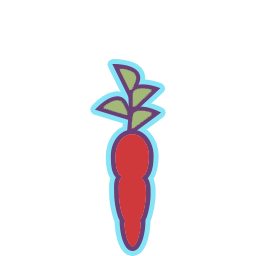
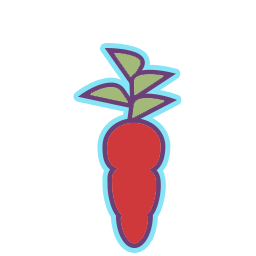
* Experiment with item offset

Changed region(s): [[0.2812, 0.1562, 0.7188, 1.0]]

diff --git a/src/TINS2025/Gameplay/Screen.cpp b/src/TINS2025/Gameplay/Screen.cpp
@@ -340,6 +340,55 @@ void Screen::load_up_world()
    auto generic_player_input_controller = new AllegroFlare::PlayerInputControllers::Generic();
    generic_player_input_controller->set_on_time_step_update(
       [this](AllegroFlare::Vec2D value, double time_now, double time_step) {
+         /*
+         float threshold = 0.1f;
+         float max_velocity = 0.2f;
+         float acceleration = 1.0f; // units per second squared
+         float deceleration = 2.0f; // units per second squared
+
+         // Get current velocity
+         AllegroFlare::Vec2D current_velocity = {
+            player_entity->aabb2d.get_velocity_x(),
+            player_entity->aabb2d.get_velocity_y()
+         };
+
+         AllegroFlare::Vec2D target_direction = value;
+         if (target_direction.get_magnitude() > 1.0f)
+         {
+            target_direction = target_direction.normalized();
+         }
+
+         AllegroFlare::Vec2D desired_velocity = target_direction * max_velocity;
+
+         AllegroFlare::Vec2D velocity_diff = desired_velocity - current_velocity;
+
+         // Calculate acceleration or deceleration based on input presence
+         float applied_accel = (std::abs(value.x) > threshold || std::abs(value.y) > threshold)
+            ? acceleration
+            : deceleration;
+
+         AllegroFlare::Vec2D velocity_change = velocity_diff.normalized() * applied_accel * time_step;
+
+         // Clamp the change if it's going to overshoot
+         if (velocity_change.get_magnitude() > velocity_diff.get_magnitude())
+         {
+            velocity_change = velocity_diff;
+         }
+
+         AllegroFlare::Vec2D new_velocity = current_velocity + velocity_change;
+
+         player_entity->aabb2d.set_velocity_x(new_velocity.x);
+         player_entity->aabb2d.set_velocity_y(new_velocity.y);
+
+         if (std::abs(value.x) > threshold || std::abs(value.y) > threshold)
+         {
+            player_entity->animation_mode = TINS2025::Entity::ANIMATION_MODE_WALKING_WOBBLY;
+         }
+         else
+         {
+            player_entity->animation_mode = TINS2025::Entity::ANIMATION_MODE_STANDING;
+         }
+         */
          //throw std::runtime_error("asdfasf");
 
          //player_entity->
@@ -351,6 +400,9 @@ void Screen::load_up_world()
          //player_box->position.z += value.y * 0.02;
          //player_entity->aabb2d.set_velocity_x(value.x * 0.02);
          //player_entity->aabb2d.set_velocity_y(value.y * 0.02);
+         //player_entity->aabb2d.set_velocity_x(value.x * 0.01625 * 3);
+         //player_entity->aabb2d.set_velocity_y(value.y * 0.01625 * 3);
+
          player_entity->aabb2d.set_velocity_x(value.x * 0.01625 * 3);
          player_entity->aabb2d.set_velocity_y(value.y * 0.01625 * 3);
          //player_entity->position.z += value.y * 0.02;
@@ -559,12 +611,24 @@ void Screen::render()
          animation_y_offset = std::sin(al_get_time()*34)*i + i;
       }
 
+
+      float item_y_offset = 0;
+      if (entity.type == TINS2025::Entity::ENTITY_TYPE_CARROT)
+      {
+         //item_y_offset = -0.25;
+      }
+      else if (entity.type == TINS2025::Entity::ENTITY_TYPE_RED_CARROT)
+      {
+         //item_y_offset = -0.25;
+      }
+      
+
       //entity.draw();
       float entity_center_x = entity.aabb2d.get_x() + entity.aabb2d.get_w() * 0.5f;
       float entity_center_y = entity.aabb2d.get_y() + entity.aabb2d.get_h() * 0.5f;
       placement.position.x = entity_center_x; //entity.aabb2d.get_x() + ; // + entity.aabb2d.get_w() * 0.5f;
       placement.position.z = entity_center_y; //entity.aabb2d.get_y(); // + entity.aabb2d.get_h() * 0.5;
-      placement.position.y = animation_y_offset;
+      placement.position.y = animation_y_offset + item_y_offset;
       placement.scale.x = 1.0; // + entity.aabb2d.get_w() * 0.5f;
       placement.scale.y = 1.25; // + entity.aabb2d.get_w() * 0.5f;
       //placement.size.x = entity.aabb2d.get_w(); // + entity.aabb2d.get_w() * 0.5f;
